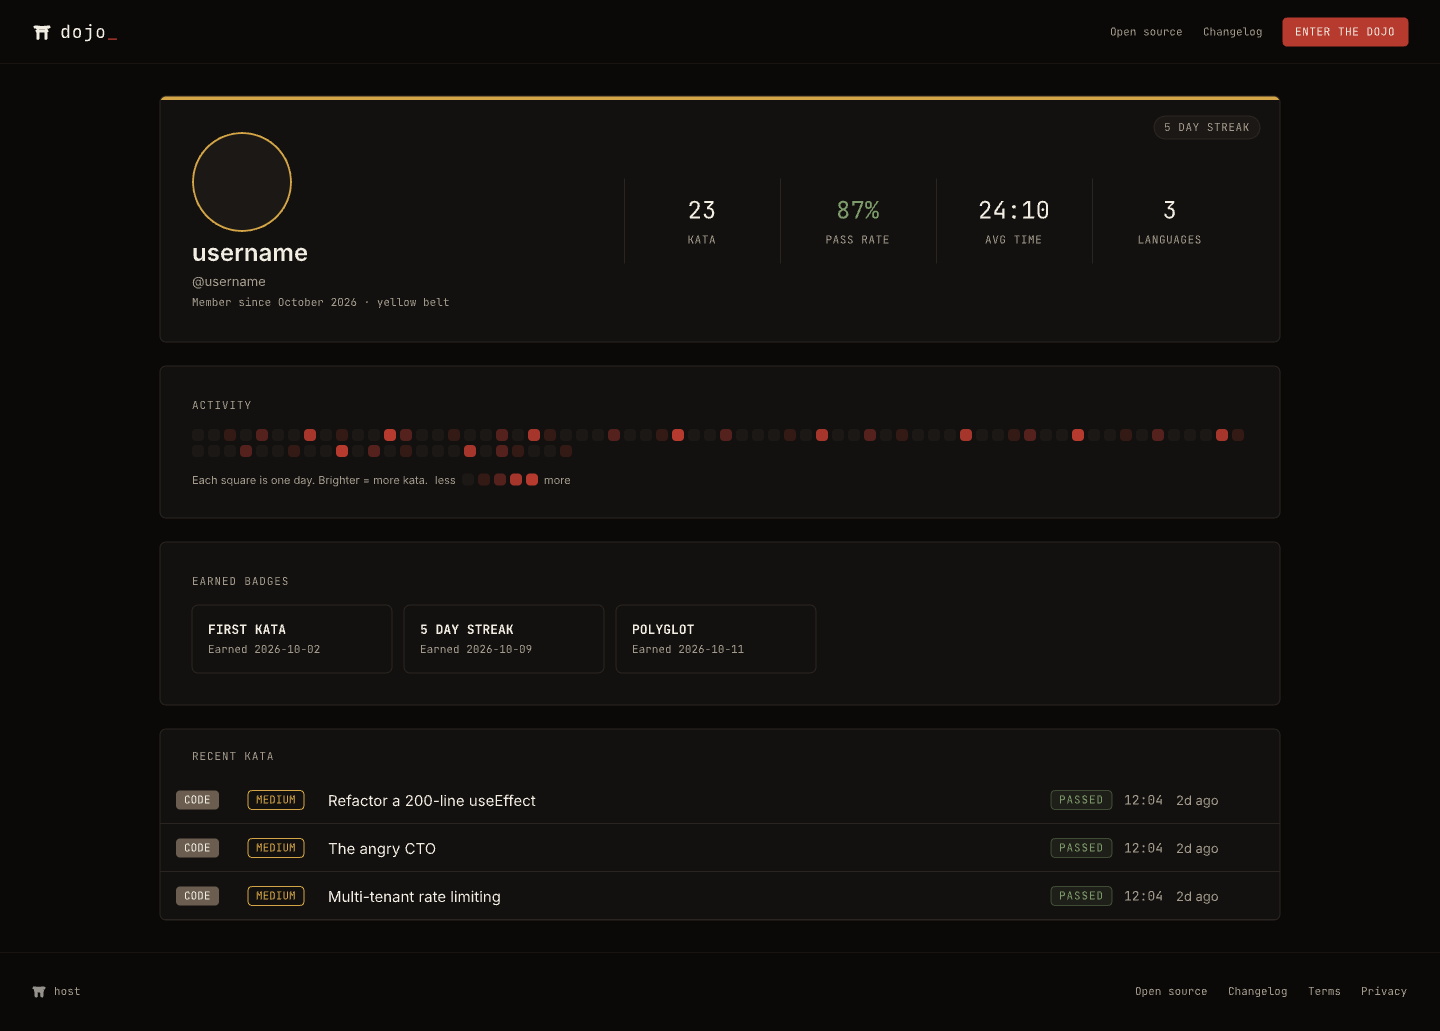
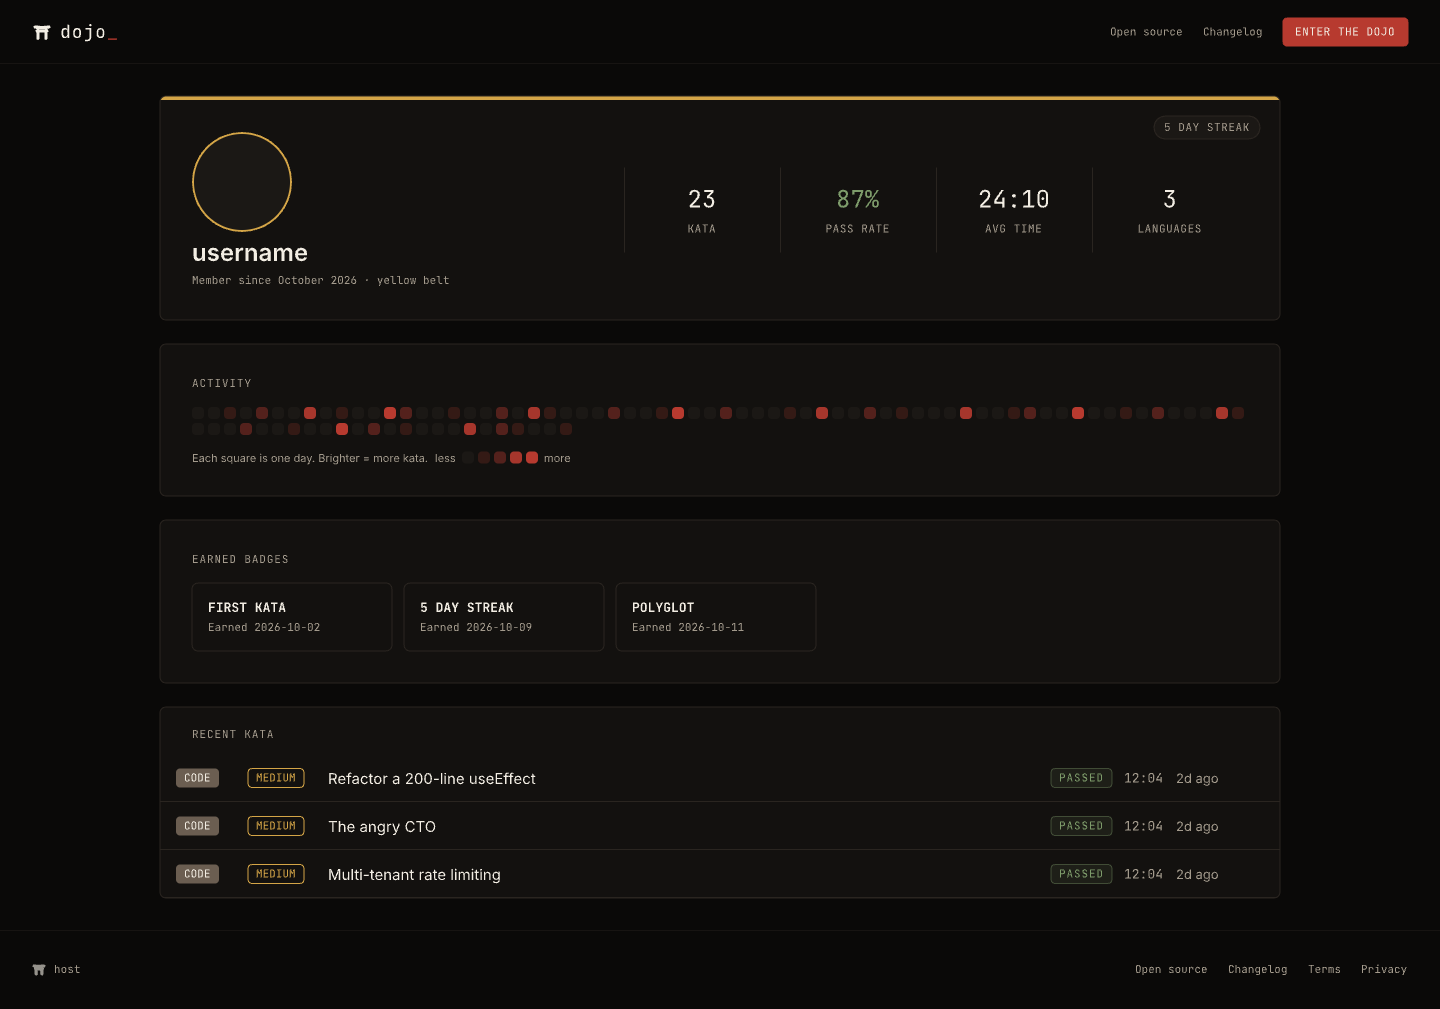
fix(web): show the username once in the public profile header
The title and the @handle line carried the same value. The title stays and
the separate handle line is gone; the design follows.

diff --git a/apps/web/src/pages/PublicProfilePage.test.tsx b/apps/web/src/pages/PublicProfilePage.test.tsx
@@ -94,7 +94,7 @@ describe('PublicProfilePage', () => {
     renderProfile()
 
     expect(await screen.findByRole('heading', { name: 'kenobi' })).toBeInTheDocument()
-    expect(screen.getByText('@kenobi')).toBeInTheDocument()
+    expect(screen.queryByText('@kenobi')).not.toBeInTheDocument()
     expect(screen.getByText(/Member since January 2026 · green belt/)).toBeInTheDocument()
 
     // Stats grid: distinct values per cell.
@@ -127,7 +127,7 @@ describe('PublicProfilePage', () => {
     expect(screen.queryByText('First Kata')).not.toBeInTheDocument()
     expect(screen.queryByText('Reverse a linked list')).not.toBeInTheDocument()
     // Header still renders so this is a populated-but-quiet profile, not an error.
-    expect(screen.getByText('@kenobi')).toBeInTheDocument()
+    expect(screen.getByText(/Member since/)).toBeInTheDocument()
   })
 
   it('navigates to the share page when a recent kata row is clicked', async () => {

diff --git a/apps/web/src/pages/PublicProfilePage.tsx b/apps/web/src/pages/PublicProfilePage.tsx
@@ -101,7 +101,6 @@ export function PublicProfilePage() {
                 <h1 className="text-primary text-2xl md:text-2xl font-semibold leading-tight tracking-tight truncate">
                   {profile.username}
                 </h1>
-                <p className="text-secondary text-base">@{profile.username}</p>
                 <p className="text-secondary text-xs font-mono tracking-[0.04em] mt-1">
                   Member since {memberSince} · {profile.belt.rank} belt
                 </p>
